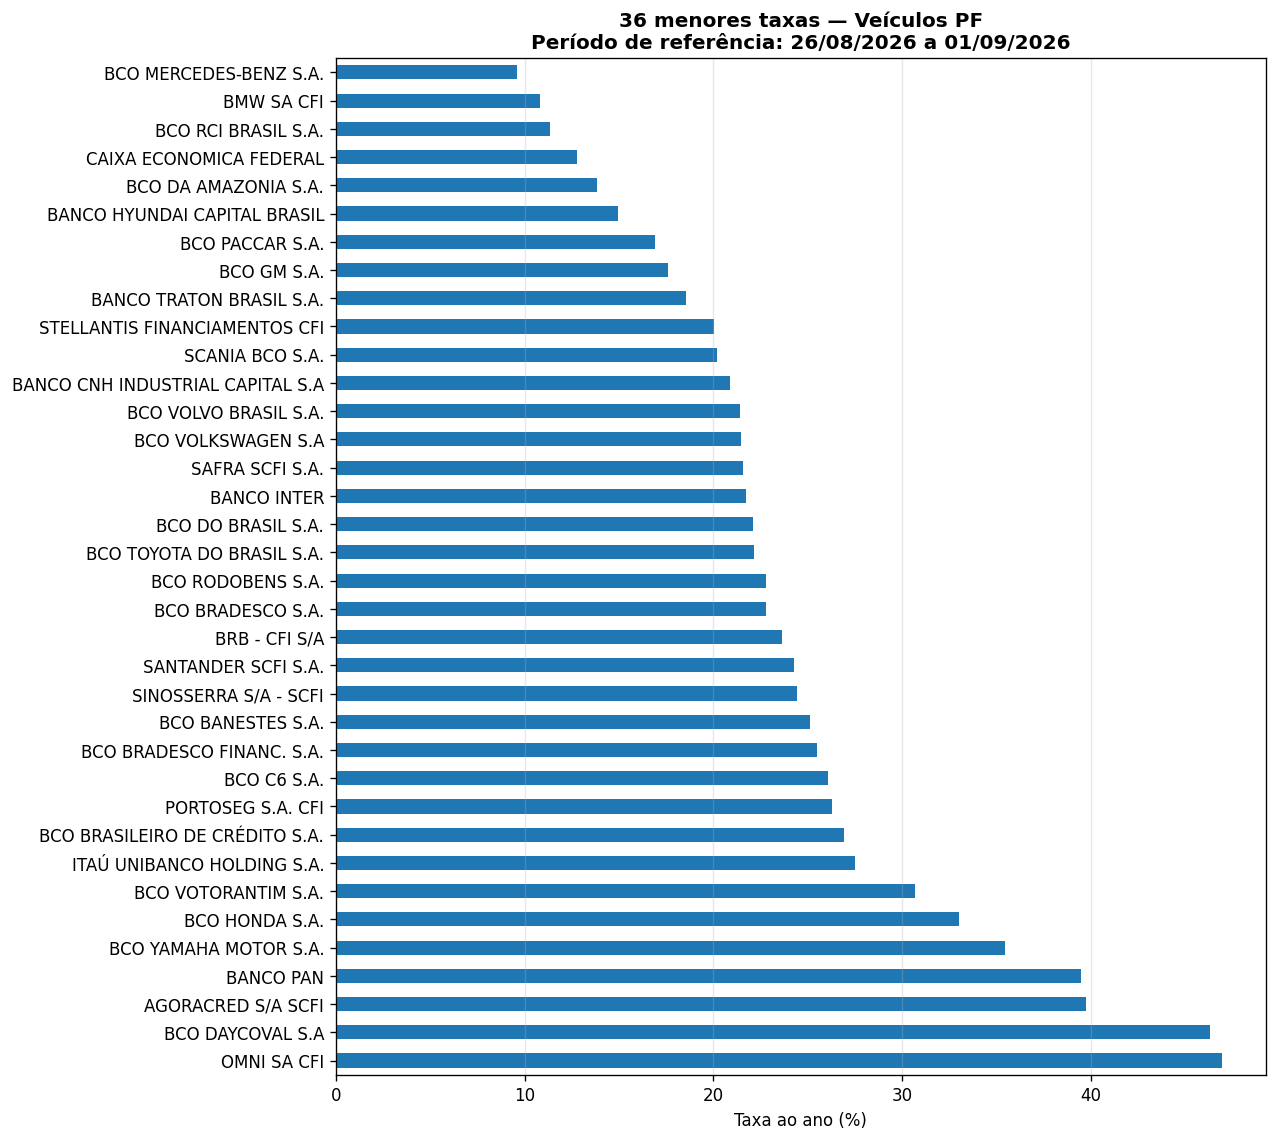
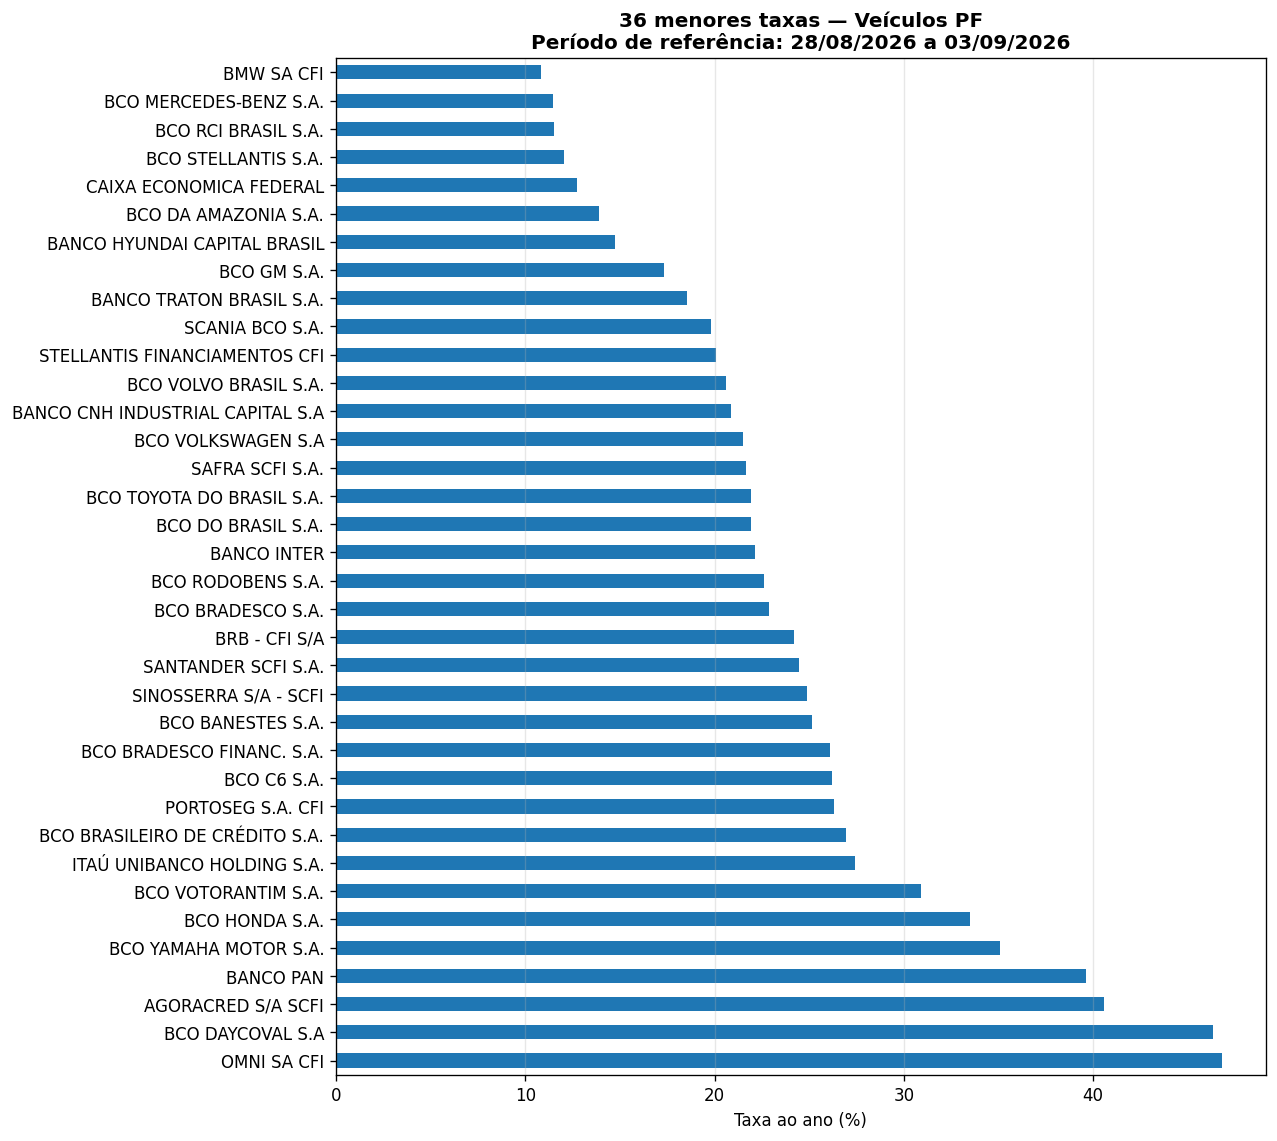
feat: pipeline ML unificado, subsidio e anomalias no dashboard, doc honesta

diff --git a/app.py b/app.py
@@ -33,7 +33,14 @@ def get_engine():
     Cria o engine uma vez (cache_resource) a partir de DATABASE_URL.
     No Streamlit Cloud, st.secrets expõe os secrets; localmente lê do ambiente.
     """
-    url = os.getenv("DATABASE_URL") or st.secrets.get("DATABASE_URL")
+    url = os.getenv("DATABASE_URL")
+    if not url:
+        # st.secrets lança exceção se não houver secrets.toml (rodando local).
+        # No Streamlit Cloud o secret existe; local usamos a variável de ambiente.
+        try:
+            url = st.secrets.get("DATABASE_URL")
+        except Exception:
+            url = None
     if not url:
         st.error("DATABASE_URL não definida. Configure nos Secrets do app.")
         st.stop()
